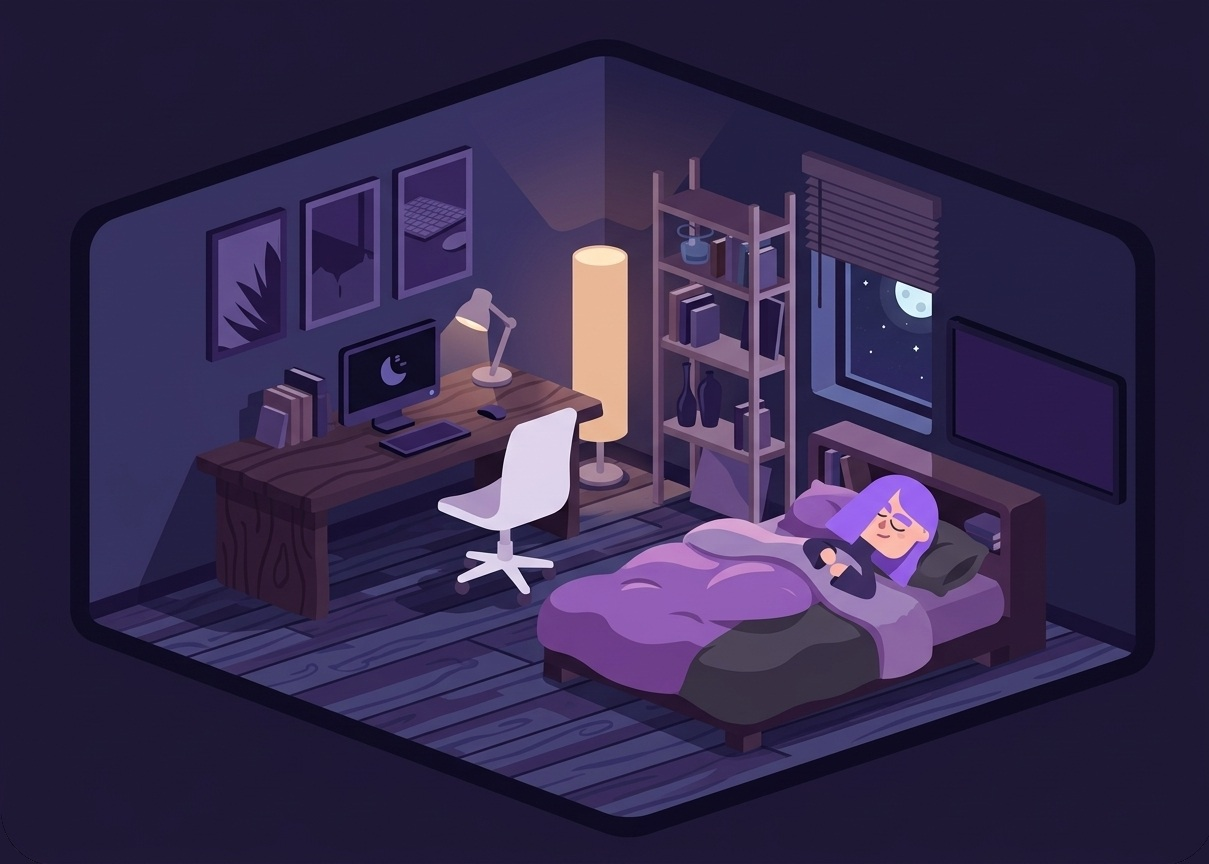
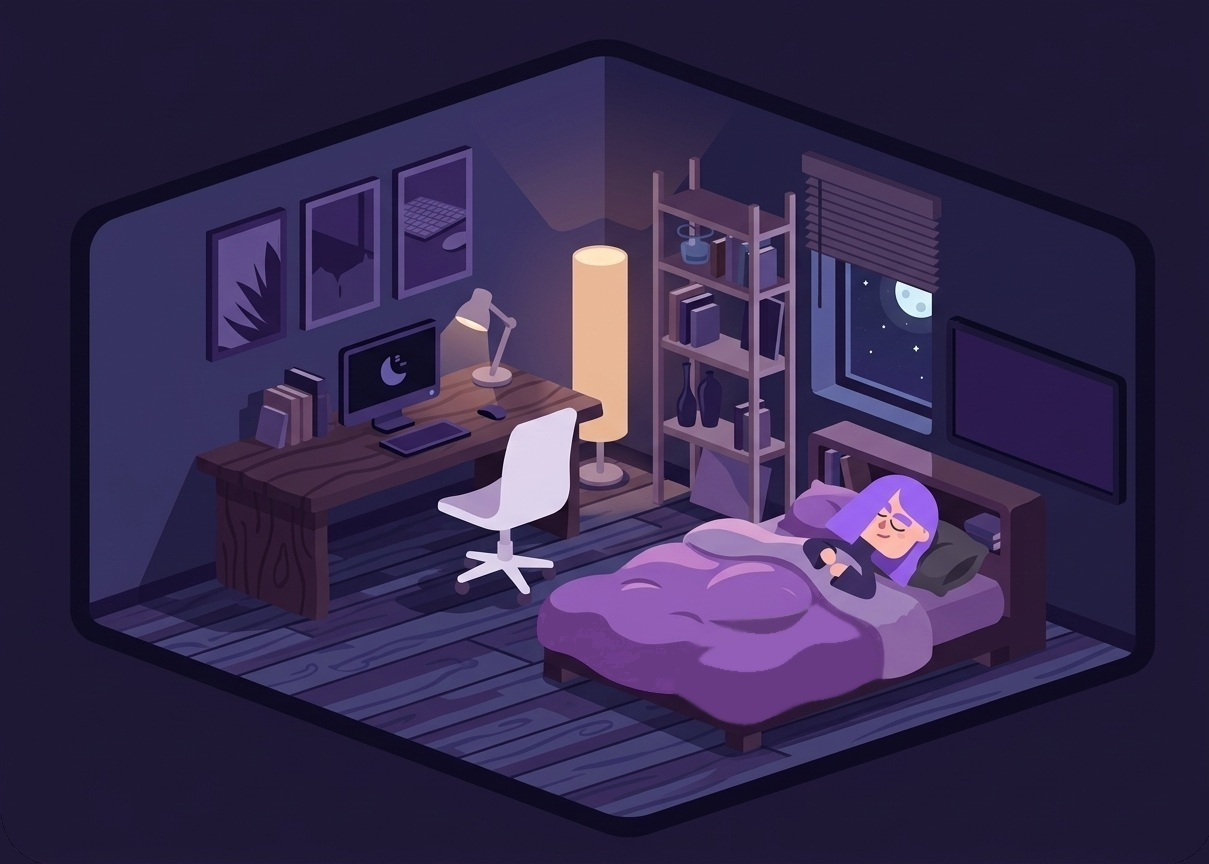
TASK-01: fix login error message, install backend deps on root install
- auth: remove stray text from the 401 login error message
- package.json: add postinstall so backend dependencies are installed
  with the root install (needed for start:grader)
- update virtualRoomNight.jpg dashboard asset

Changed region(s): [[0.5509, 0.6875, 0.7345, 0.8438], [0.7039, 0.5938, 0.7345, 0.625]]

diff --git a/backend/src/routes/auth.js b/backend/src/routes/auth.js
@@ -12,7 +12,7 @@ authRouter.post("/auth/login", (req, res) => {
 
   const user = findUserByUsername(value.username);
   if (!user || user.password !== value.password) {
-    return res.status(401).json({ message: "Нэр эсвэл нууц bnooooo үг буруу байна" });
+    return res.status(401).json({ message: "Нэр эсвэл нууц үг буруу байна" });
   }
 
   const token = createSession(user);
